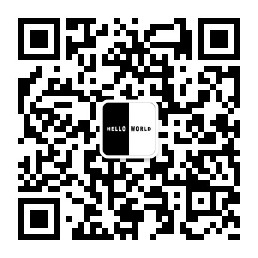
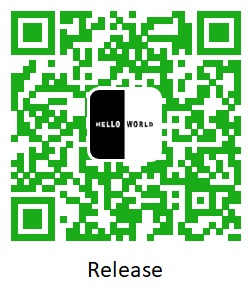
add more qrcode.

diff --git a/_posts/2018-08-27-kubeadm.md b/_posts/2018-08-27-kubeadm.md
@@ -3,11 +3,11 @@ layout: post
 title: 在国内使用kubeadm搭建k8s集群
 key: 20180827
 tags: kubeadm k8s kubernetes coreos
-modify_date: 2018-08-27
+modify_date: 2018-11-09
 ---
 
 k8s是目前最流行的容器编排工具，不过k8s的安装部署一直是国内用户的一大痛点，复杂的部署配置过程使得其学习曲线非常陡峭。而新版本推出的kubeadm工具大大的简化了整个过程，这也是k8s官方推荐的安装工具。可惜，在国内的网络环境下，kubeadm是无法顺利运行的。因此，本文提供了在国内环境下使用kubeadm搭建k8s集群的过程。
-本文的步骤基于k8s的官方文档 (https://kubernetes.io/docs/setup) 中的“Bootstrapping Clusters with kubeadm”章节，使用coreos公司的Container Linux作为操作系统进行部署k8s的1.11.2版本。
+本文的步骤基于k8s的官方文档 (https://kubernetes.io/docs/setup) 中的“Bootstrapping Clusters with kubeadm”章节，使用coreos公司的Container Linux作为操作系统进行部署k8s的1.12.1版本。
 
 <!--more-->
 
@@ -84,7 +84,7 @@ kubeadm创建集群的时候需要从gcr.io下载镜像，查看所需镜像：
 ```
 # cd ~
 # git clone https://github.com/lprincewhn/googlecontainers.git
-# export RELEASE=v1.11.2
+# export RELEASE=v1.12.1
 # bash googlecontainers/get_kubeadm_images.sh
 ```
 

diff --git a/_posts/2016-01-07-vagrant-openstack.md b/_posts/2016-01-07-vagrant-openstack.md
@@ -114,6 +114,7 @@ export OS_IDENTITY_API_VERSION=3
 
 ```
 # cp allinone addcpu
+# vi addcpu
 # diff allinone addcpu  
 86c86
 < EXCLUDE_SERVERS=
@@ -146,6 +147,7 @@ export OS_IDENTITY_API_VERSION=3
 ```
 
 安装完成后在Dashboard上已经可以看到两个计算节点：
+
 ![add-compute.jpg](http://lprincewhn.github.io/assets/images/add-compute.jpg)
 
 从上面防火墙规则可以看出，如果按照packstack安装时默认的防火墙规则配置方法，每增加一个计算节点，都要在启动所有节点（包括控制，网络，计算节点）上增加针对新节点IP的防火墙规则，配置复杂度随着集群规模的扩大以平方速度上升。针对这个问题，一个可行的解决方案是：
@@ -177,6 +179,7 @@ export OS_IDENTITY_API_VERSION=3
 
 ```
 # cp addcpu addnet
+# vi addnet
 # diff addcpu addnet         
 86c86
 < EXCLUDE_SERVERS=192.168.56.15
